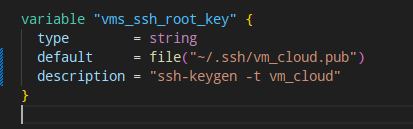
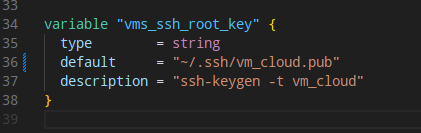
1.4

diff --git a/02_1/hw-02.md b/02_1/hw-02.md
@@ -41,8 +41,7 @@
 
 Использую свой текущий ssh-ключ. Записал его открытую(public) часть в переменную **vms_ssh_public_root_key**.
 
-![alt text](./images/1.4.png)
-
+![alt text](1.4.png)
 
 5. Инициализируйте проект, выполните код. Исправьте намеренно допущенные синтаксические ошибки. Ищите внимательно, посимвольно. Ответьте, в чём заключается их суть.
 6. Подключитесь к консоли ВМ через ssh и выполните команду ``` curl ifconfig.me```.
